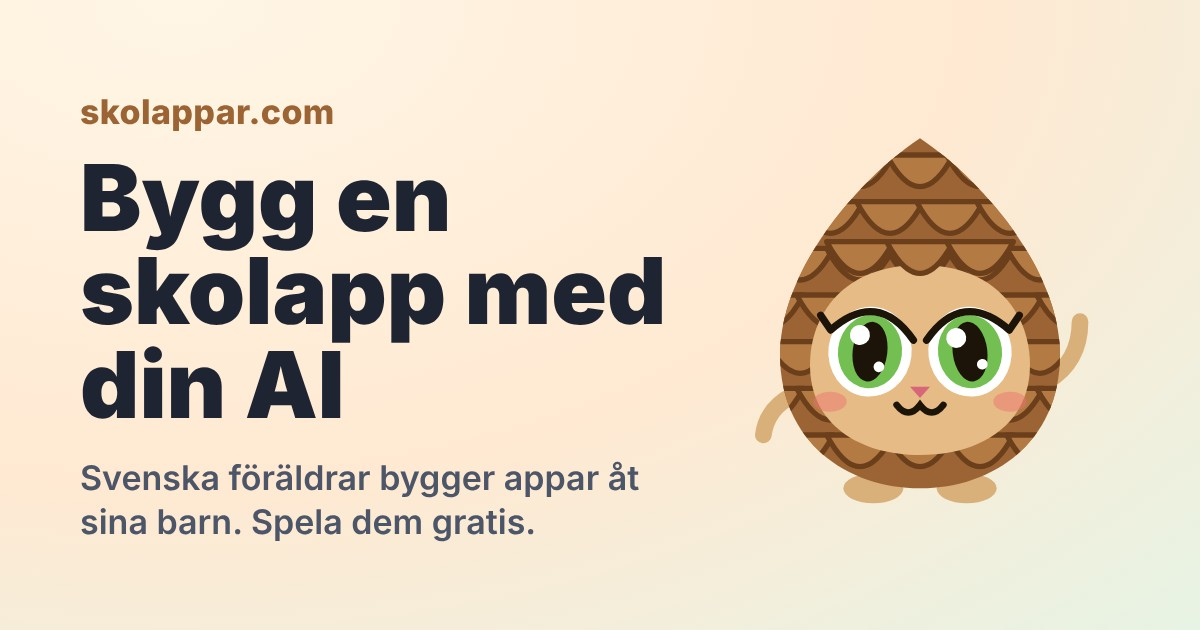
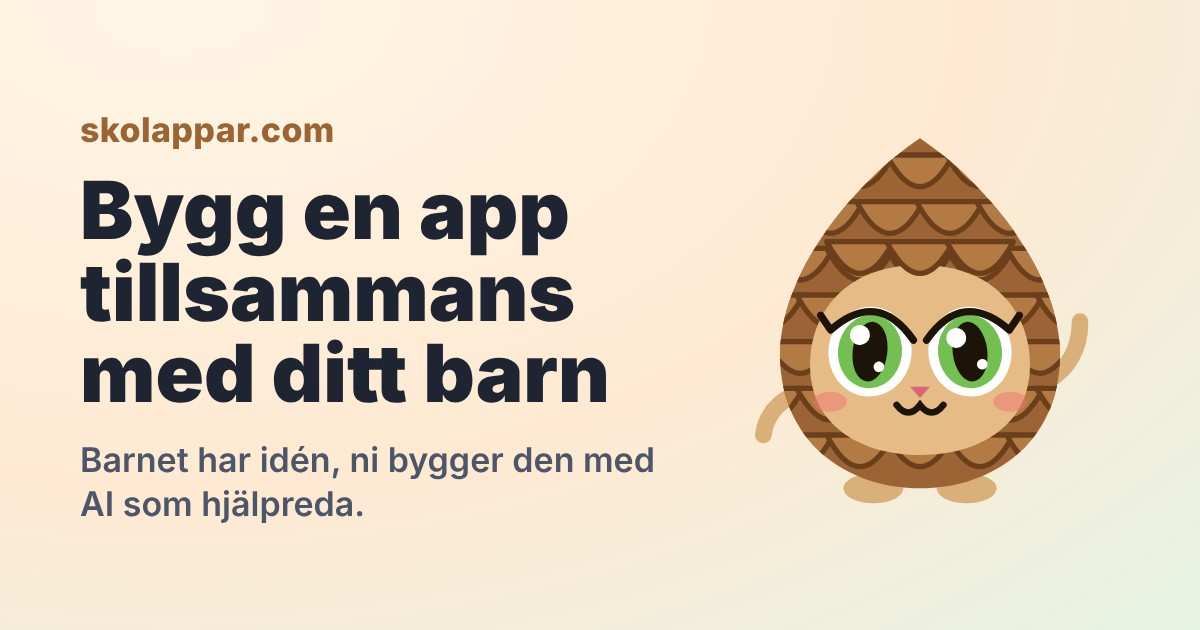
Start page: build an app together with your child (#21)
- Headline: "Bygg en app tillsammans med ditt barn". Under it: the child
  has the idea, you build it, with an AI agent as the helper; Swedish
  curriculum, free to play for everyone.
- Kotten asks "Vad vill ni bygga?" instead of "Hej! Kom och lek!".
- The share image has the new headline.

The child and "together" come first; AI is the helper, not the subject.

Claude-Session: https://claude.ai/code/session_01USbBy7WkNKjjDXmPsjyymJ

Changed region(s): [[0.0617, 0.1508, 0.555, 0.6635], [0.0617, 0.6937, 0.555, 0.8746]]

diff --git a/src/components/KottenHello.tsx b/src/components/KottenHello.tsx
@@ -4,7 +4,7 @@ import { Kotten, type KottenMood } from '@/components/Kotten';
 const reducedMotion = () => typeof window !== 'undefined' && window.matchMedia?.('(prefers-reduced-motion: reduce)').matches;
 
 /**
- * Kotten on the start page: asleep for a moment, then wakes up, grows, waves and says hello.
+ * Kotten on the start page: asleep for a moment, then wakes up, grows, waves and asks what you want to build.
  * A tap makes it cheer. With reduced motion it is simply there, awake, with its greeting.
  */
 export function KottenHello({ className }: { className?: string }) {
@@ -29,7 +29,7 @@ export function KottenHello({ className }: { className?: string }) {
   return (
     <div className={`kotten-hello ${awake ? 'is-awake' : ''} ${mood === 'jublar' ? 'is-cheering' : ''} ${className ?? ''}`}>
       <p className="kotten-bubble" aria-hidden={!awake}>
-        {mood === 'jublar' ? 'Hurra!' : <>Hej! Kom och lek!</>}
+        {mood === 'jublar' ? 'Hurra!' : <>Vad vill ni bygga?</>}
       </p>
       <button type="button" onClick={tap} className="kotten-figure" aria-label="Kotten säger hej – tryck för att heja">
         <Kotten mood={mood} attribute={mood === 'jublar'} title="" className="h-full w-full" />

diff --git a/src/pages/Index.tsx b/src/pages/Index.tsx
@@ -79,10 +79,10 @@ export default function Index() {
         <div className="mx-auto flex max-w-5xl flex-col-reverse items-center gap-4 md:flex-row md:gap-10">
           <div className="min-w-0 flex-1 text-center md:text-left">
             <h1 className="text-4xl md:text-6xl font-heading font-black leading-tight text-balance">
-              Bygg en skolapp med <span className="text-gradient">din AI</span>
+              Bygg en app tillsammans med <span className="text-gradient">ditt barn</span>
             </h1>
             <p className="mt-3 text-lg text-muted-foreground">
-              Svenska föräldrar bygger appar åt sina barn, med läroplanen som karta. Spela dem gratis här – eller bygg en egen i kväll.
+              Barnet har idén, ni bygger den – med en AI-agent som hjälpreda. Efter svensk läroplan, och gratis att spela för alla.
             </p>
             <div className="mt-5 flex flex-wrap justify-center gap-3 md:justify-start">
               <Button size="lg" className="h-12 rounded-full shadow-playful-lg" asChild>
